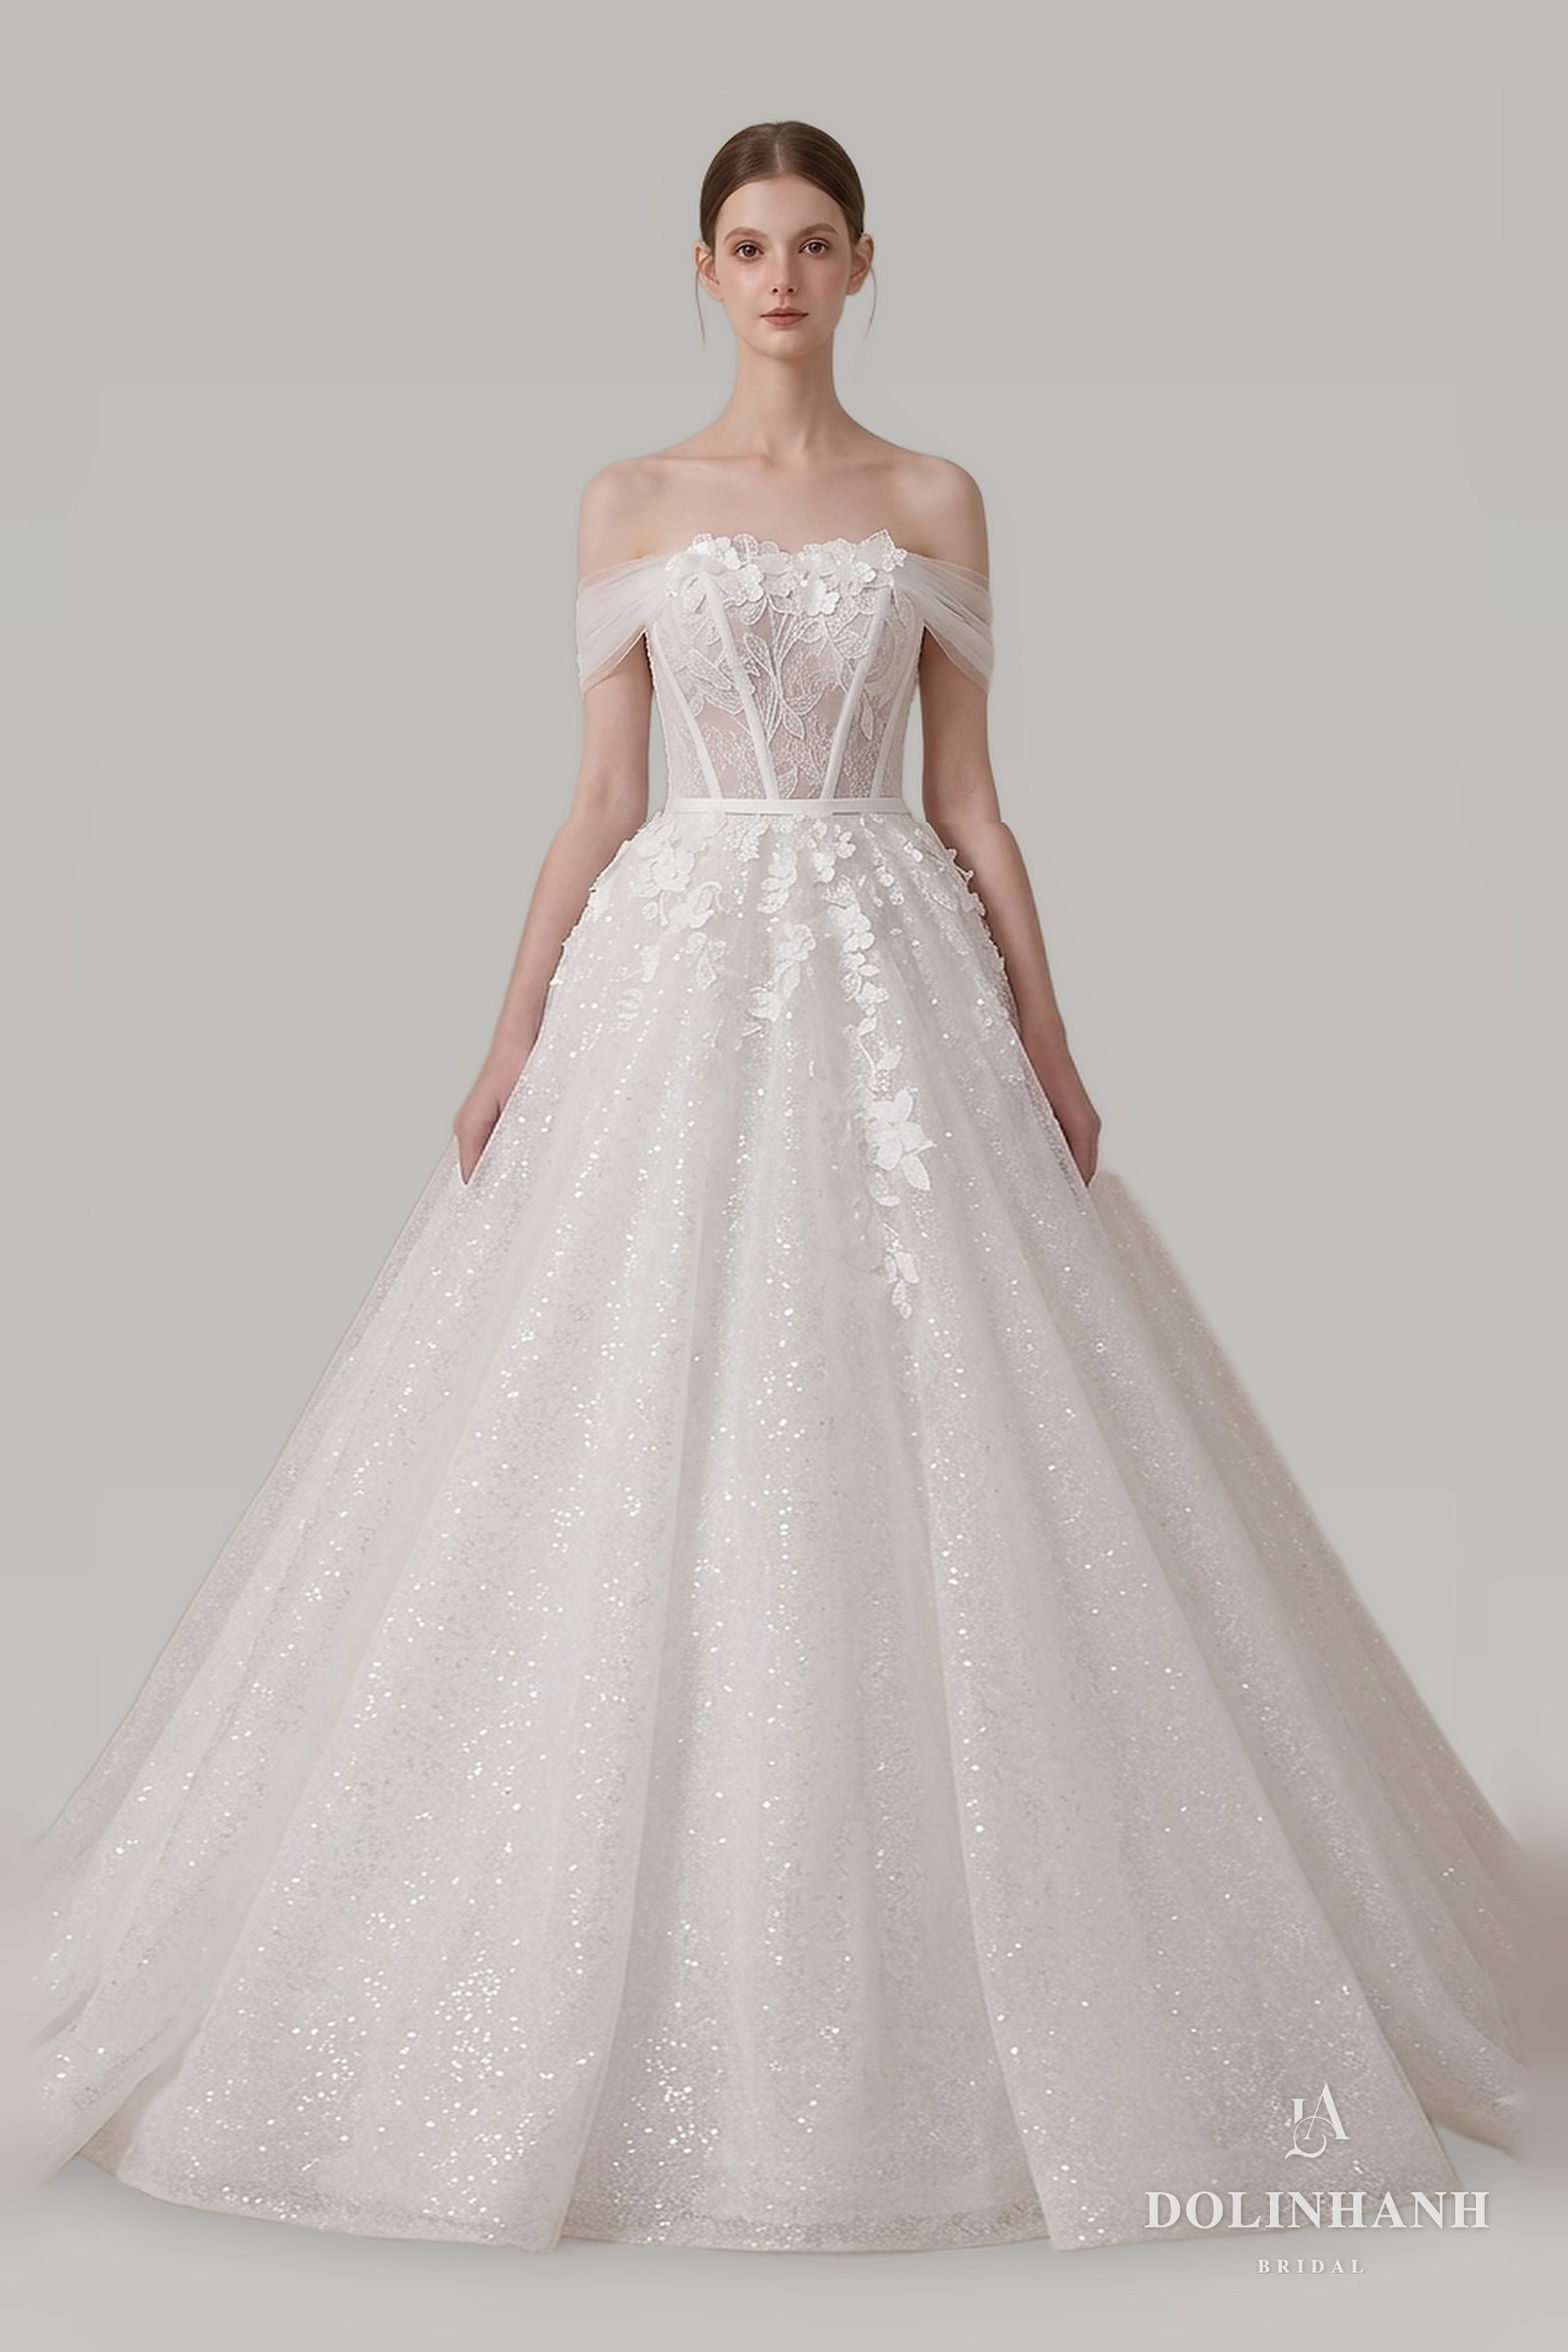
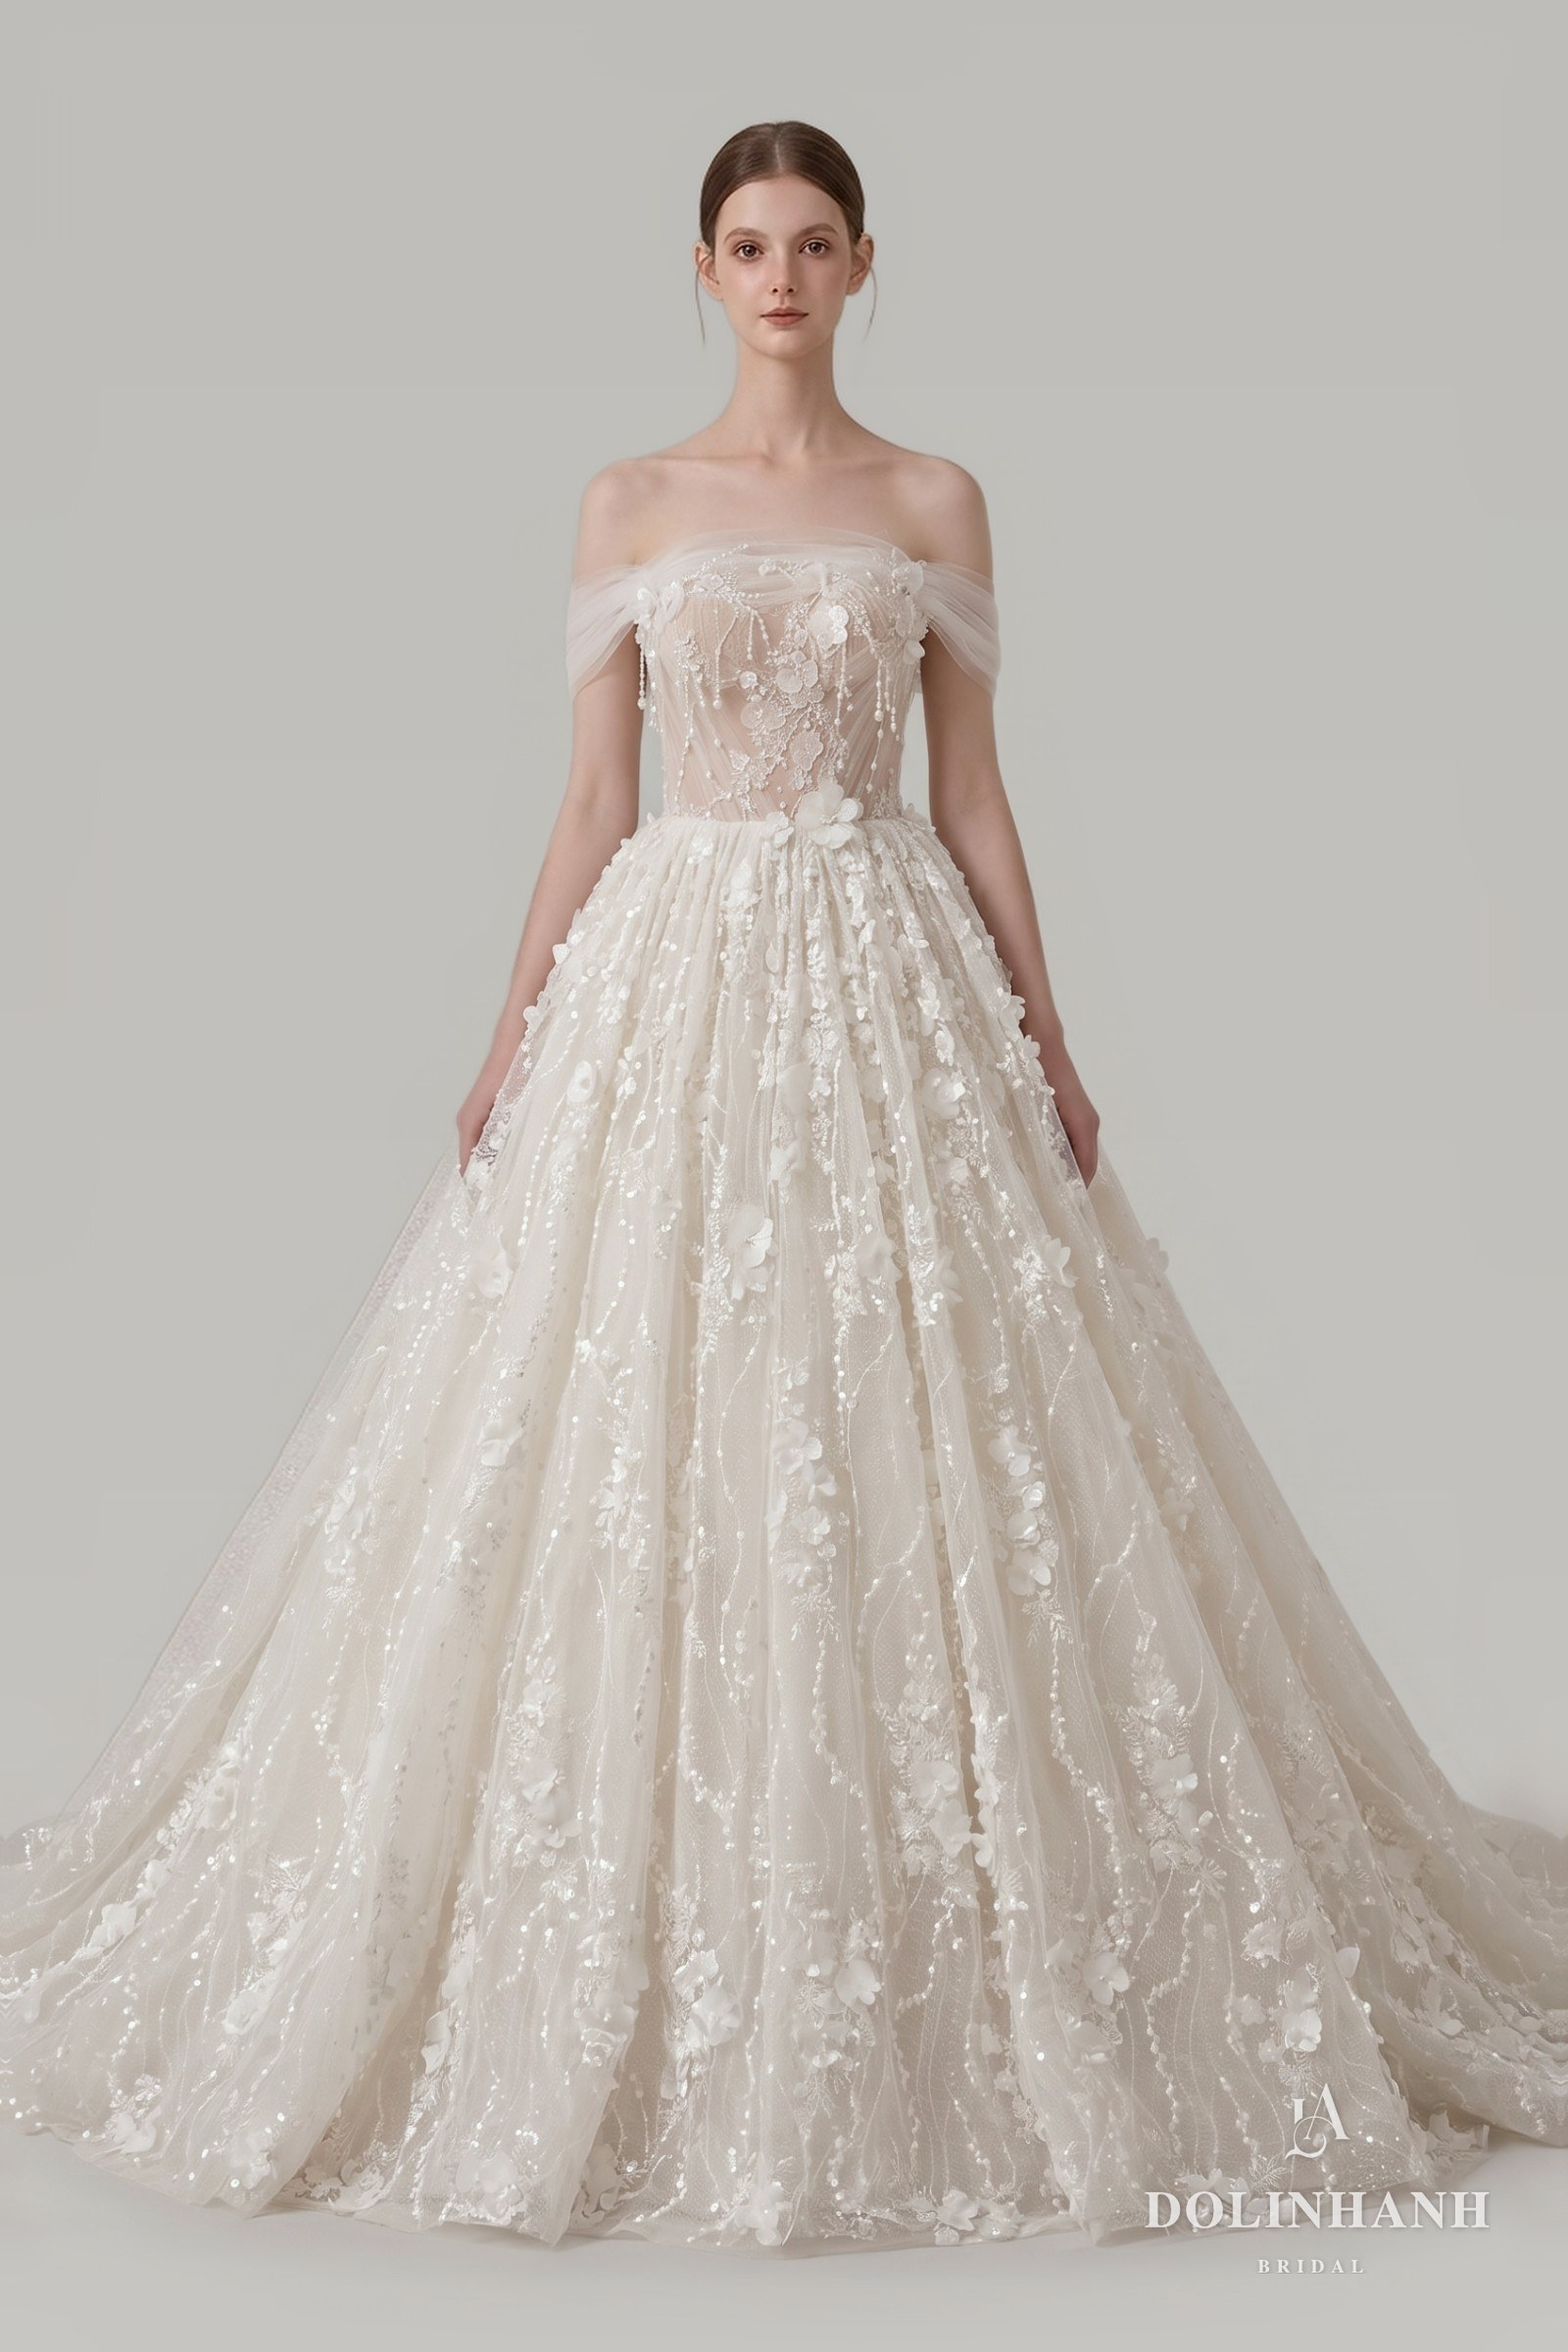
V142: MS 133 vẽ lại theo váy thật; thêm MS 573, 574 (chị Linh chốt 18/10)

diff --git a/bo-suu-tap.html b/bo-suu-tap.html
@@ -1267,7 +1267,7 @@ src="https://www.facebook.com/tr?id=1358640082651240&ev=PageView&noscript=1"
         </figure>
         <figure data-dang="ballgown" data-mood="romantic" data-coso="hcm">
           <div class="sl-khung">
-            <div class="sl" data-img="anh/vay/ms133/01.jpg?v=3"></div>
+            <div class="sl" data-img="anh/vay/ms133/01.jpg?v=4"></div>
           </div>
           <figcaption><span class="kind" data-en="Dolinhanh Bridal" data-zh="Dolinhanh Bridal">Dolinhanh Bridal</span><span class="nm">MS 133</span><span class="de" data-en="Off-shoulder lace ballgown" data-zh="一字肩蕾丝大蓬裙">Ren hoa trễ vai, tùng xoè</span><span class="gia">US$2,280</span></figcaption>
         </figure>
@@ -2620,6 +2620,18 @@ src="https://www.facebook.com/tr?id=1358640082651240&ev=PageView&noscript=1"
             <div class="sl" data-img="anh/vay/ms572/01.jpg?v=1" data-lon="anh/vay/ms572/lon.jpg?v=1"></div>
           </div>
           <figcaption><span class="kind" data-en="Dolinhanh Bridal" data-zh="Dolinhanh Bridal">Dolinhanh Bridal</span><span class="nm">MS 572</span><span class="de" data-en="Sequin long sleeves with tulle overlay" data-zh="亮片长袖薄纱罩层婚纱">Tay dài sequin, voan phủ</span><span class="gia">US$2,080</span></figcaption>
+        </figure>
+        <figure data-dang="ballgown" data-mood="romantic" data-coso="hcm">
+          <div class="sl-khung">
+            <div class="sl" data-img="anh/vay/ms573/01.jpg?v=1"></div>
+          </div>
+          <figcaption><span class="kind" data-en="Dolinhanh Bridal" data-zh="Dolinhanh Bridal">Dolinhanh Bridal</span><span class="nm">MS 573</span><span class="de" data-en="Off-shoulder tulle, all-over 3D floral lace ballgown" data-zh="一字肩薄纱满身立体花朵蓬蓬裙">Trễ vai voan, ren hoa 3D phủ kín</span><span class="gia">US$2,280</span></figcaption>
+        </figure>
+        <figure data-dang="ballgown" data-mood="romantic" data-coso="hcm">
+          <div class="sl-khung">
+            <div class="sl" data-img="anh/vay/ms574/01.jpg?v=1"></div>
+          </div>
+          <figcaption><span class="kind" data-en="Dolinhanh Bridal" data-zh="Dolinhanh Bridal">Dolinhanh Bridal</span><span class="nm">MS 574</span><span class="de" data-en="Off-shoulder corset ballgown with glitter tulle" data-zh="一字肩鱼骨胸衣亮片纱蓬蓬裙">Trễ vai voan, thân gọng, chân váy kim tuyến</span><span class="gia">US$2,280</span></figcaption>
         </figure>
         <figure data-dang="a-line" data-mood="timeless" data-coso="hcm">
           <div class="sl-khung">
